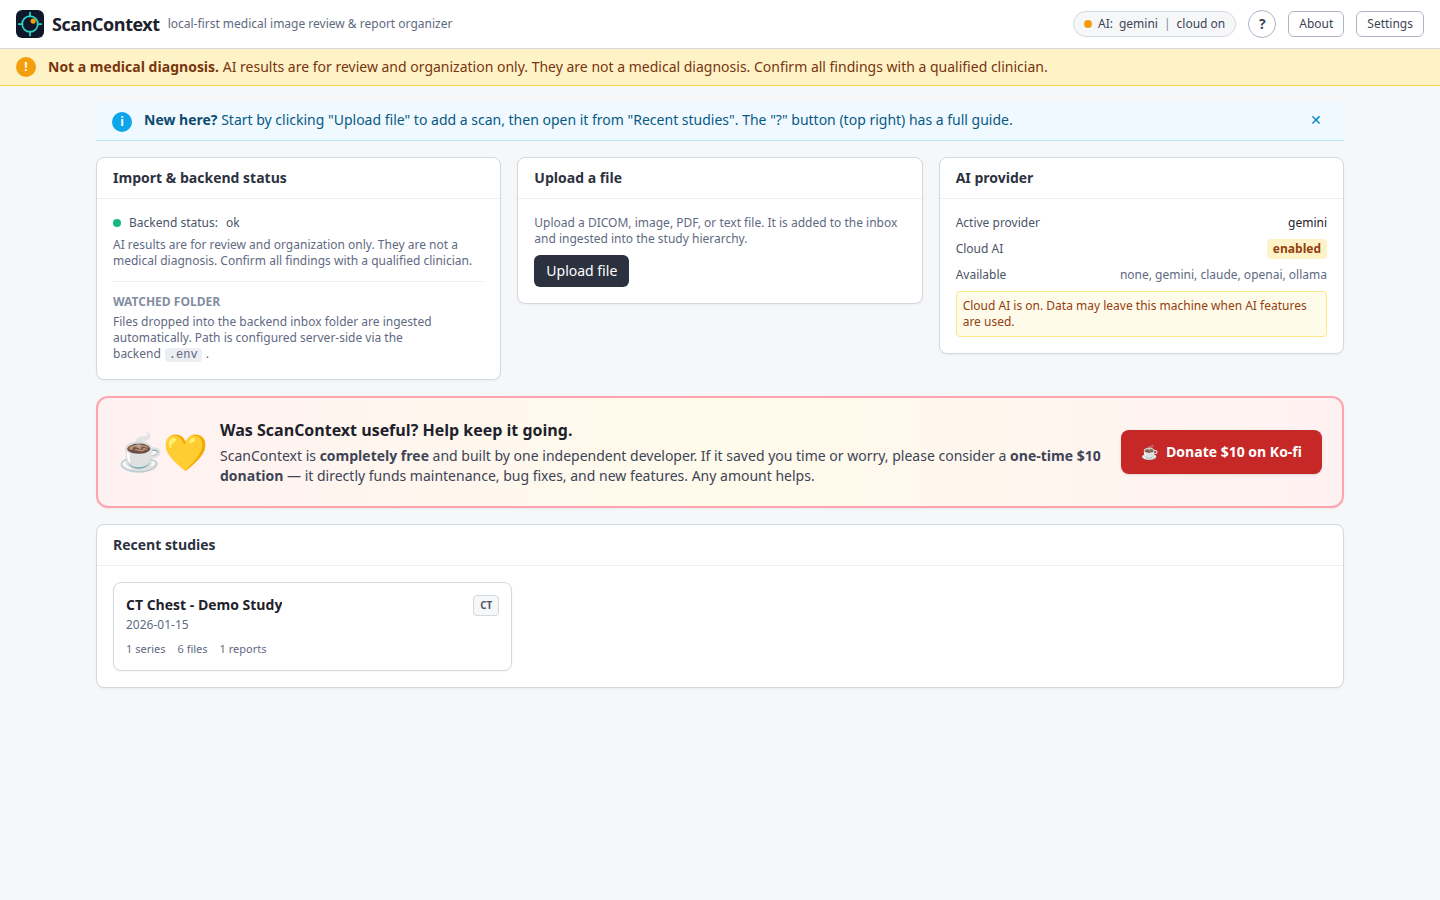
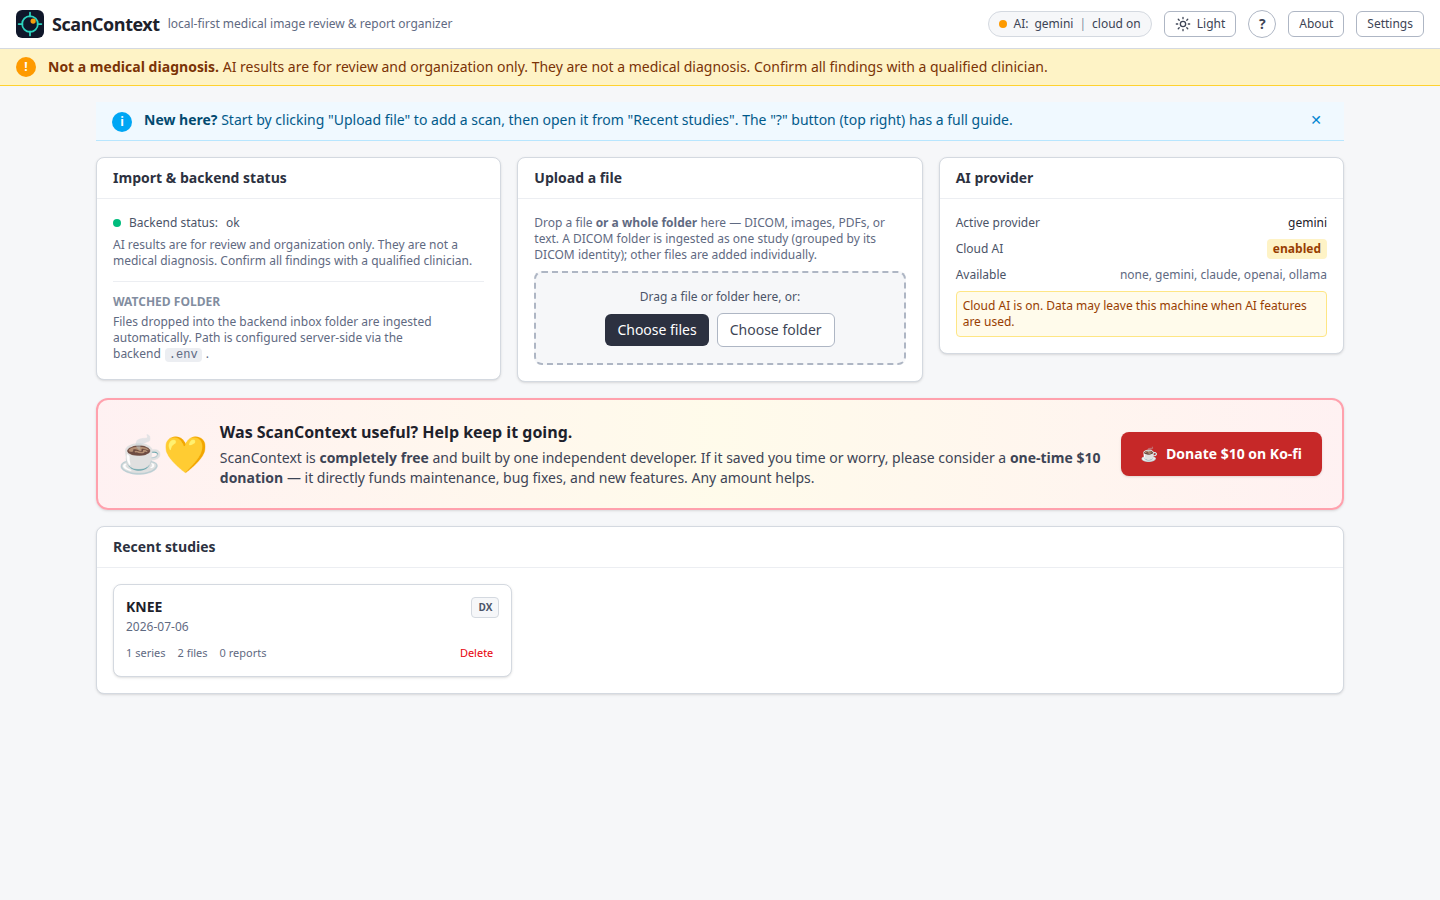
docs: sync landing site from scan-context@eb84e87

diff --git a/docs/index.html b/docs/index.html
@@ -392,8 +392,9 @@
     <div class="steps">
       <div class="step">
         <h3>Import your files</h3>
-        <p>Drop in DICOM studies, image files, ZIPs, PDFs, or text reports.
-        ScanContext sorts them into studies for you.</p>
+        <p>Drag a file or a whole folder straight onto the app — DICOM studies,
+        image files, ZIPs, PDFs, or text reports. ScanContext sorts them into
+        studies for you, and you can delete any study when you're done.</p>
       </div>
       <div class="step">
         <h3>View &amp; annotate</h3>
@@ -450,8 +451,14 @@
     <div class="gallery">
       <figure>
         <img src="showcase/screenshots/02-dashboard.png" loading="lazy"
-             alt="ScanContext dashboard listing the demo study.">
-        <figcaption>Your studies, with import status and AI provider at a glance.</figcaption>
+             alt="ScanContext dashboard: drag-and-drop upload area, studies, and AI provider status.">
+        <figcaption>Drag a file or a whole folder to import; your studies, import
+        status, and AI provider at a glance. Delete a study anytime.</figcaption>
+      </figure>
+      <figure>
+        <img src="showcase/screenshots/16-dark-theme.png" loading="lazy"
+             alt="The ScanContext dashboard in dark theme.">
+        <figcaption>Light, Dark, or System theme &mdash; switch from the header or Settings.</figcaption>
       </figure>
       <figure>
         <img src="showcase/screenshots/04-viewer-slice.png" loading="lazy"

diff --git a/README.md b/README.md
@@ -382,11 +382,3 @@ any amount helps:
 
 Built and maintained by **Nik Reljin** · [GitHub](https://github.com/nikolareljin)
 · [LinkedIn](https://www.linkedin.com/in/nikolareljin)
-
----
-
-## Clone traffic
-
-![Clone traffic](https://raw.githubusercontent.com/nikolareljin/stats/main/charts/scancontext.svg)
-
-_Updated daily. Total and unique cloners over the last 14 days._